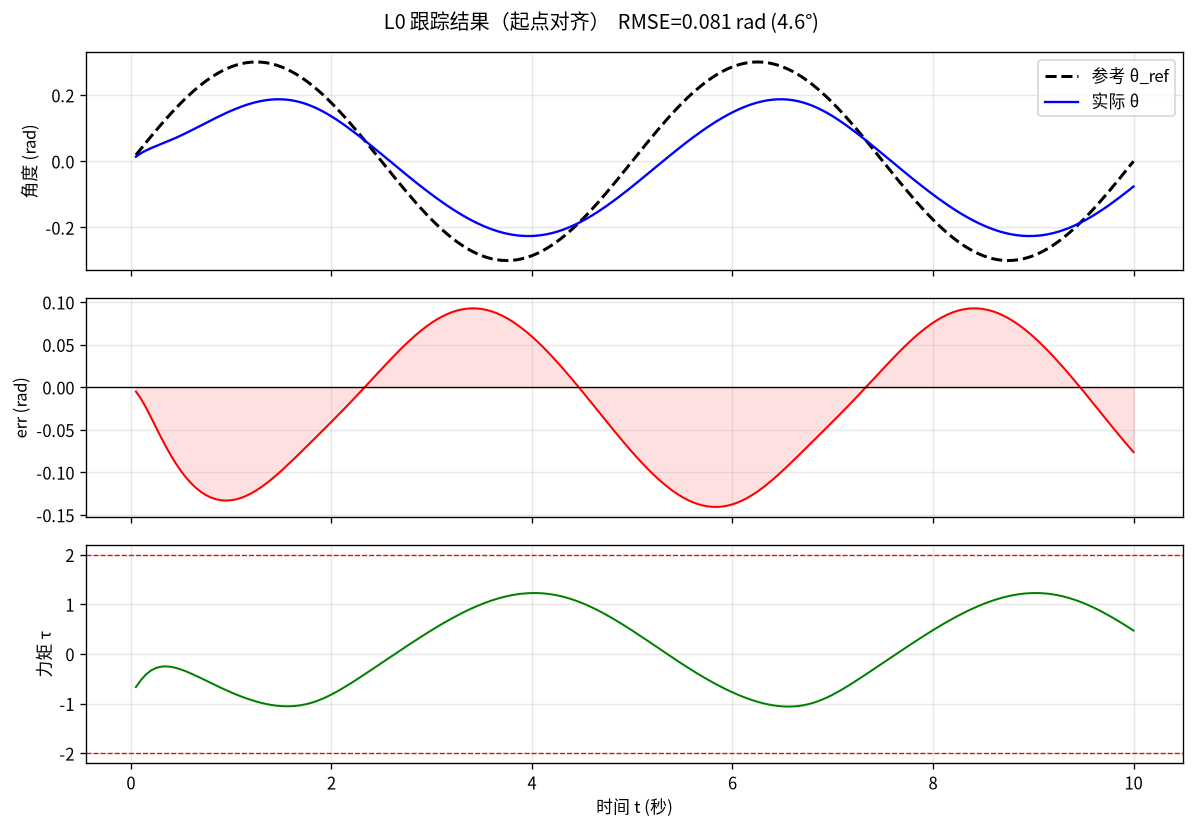
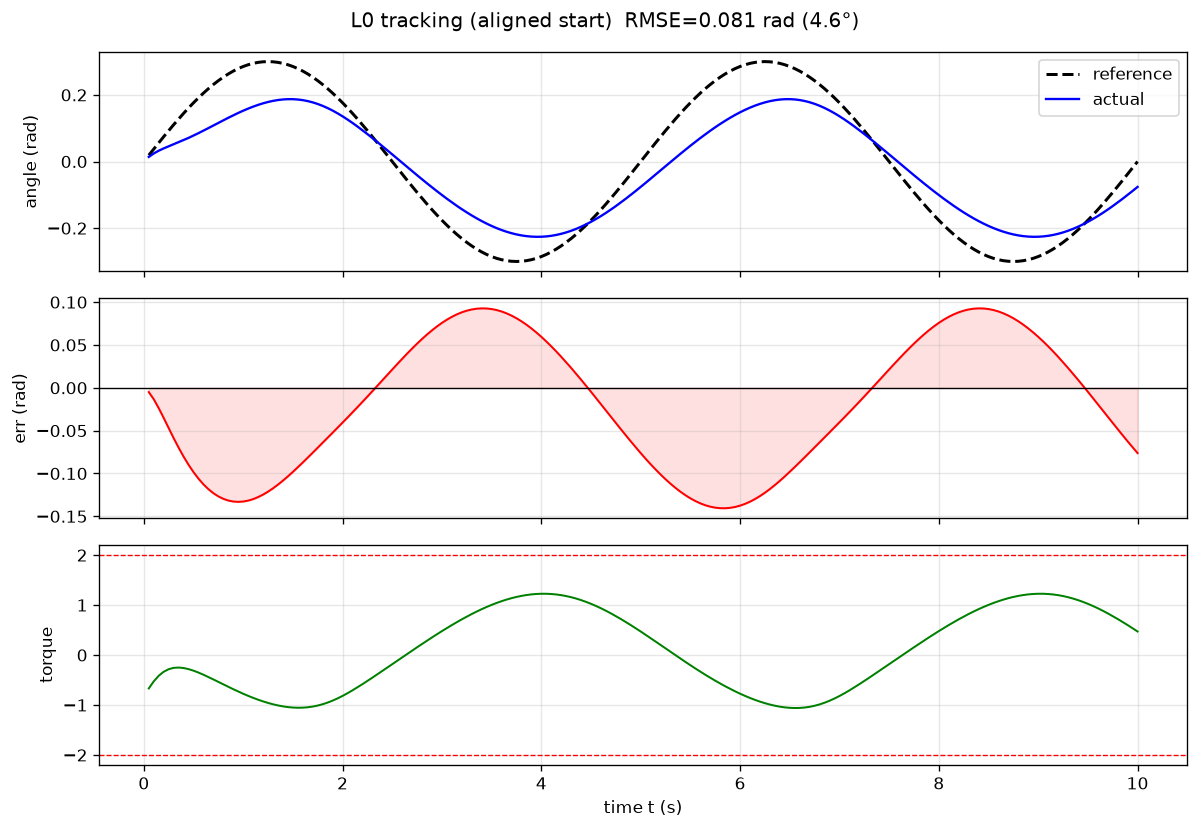
docs: finish the English pass and make evaluation reproducible
Translates every remaining Chinese string: comments and docstrings in
tracking_env.py, train_curriculum.py and eval_tracking.py, plus the
.gitignore and requirements.txt headers. Regenerates the tracking figure
with English axis labels.

Also seeds protocol B, whose random initial state made the reported RMSE
drift between runs, and updates the README to the reproducible numbers
(0.6277 +/- 0.3234 rad).

diff --git a/supermimic_l0/eval_tracking.py b/supermimic_l0/eval_tracking.py
@@ -1,9 +1,11 @@
-"""L0 评估：两个口径衡量跟踪质量。
+"""L0 evaluation: two protocols for measuring tracking quality.
 
-协议 A（起点对齐）：把杆子放在参考轨迹起点再跑，衡量纯跟踪精度。
-协议 B（随机初始态）：含「从任意姿态刹车归位」，衡量恢复能力。
+Protocol A (aligned start): places the pole at the reference trajectory's
+starting state, measuring pure tracking accuracy.
+Protocol B (random start): includes braking and recovery from an arbitrary pose,
+measuring robustness.
 
-用法：
+Usage:
     cd supermimic_l0
     python eval_tracking.py
 """
@@ -15,22 +17,19 @@ from stable_baselines3 import PPO
 
 import tracking_env as te
 
-plt.rcParams['font.sans-serif'] = ['Noto Sans CJK SC']
-plt.rcParams['axes.unicode_minus'] = False
-
 MODEL_PATH = 'models/l0_ppo_curriculum.zip'
 FIG_PATH = 'assets/l0_tracking_final.png'
 
 
-def run_episode(env, model, aligned):
+def run_episode(env, model, aligned, seed=None):
     if aligned:
-        env.reset()                      # 先 reset，完成 Gymnasium 的内部记账
+        env.reset()                      # reset first so Gymnasium's internal bookkeeping is done
         env.t = 0.0
         env.unwrapped.state = np.array([te.theta_ref(0.0), te.dtheta_ref(0.0)],
                                        dtype=np.float64)
         obs = env._aug(env.unwrapped._get_obs())
     else:
-        obs, _ = env.reset()
+        obs, _ = env.reset(seed=seed)
 
     rec = {'t': [], 'err': [], 'th': [], 'ref': [], 'tau': []}
     done = False
@@ -52,7 +51,8 @@ def main():
     env = te.make_env()
 
     aligned = [run_episode(env, model, True) for _ in range(5)]
-    random_ = [run_episode(env, model, False) for _ in range(5)]
+    # fixed seeds so the reported numbers are reproducible
+    random_ = [run_episode(env, model, False, seed=s) for s in range(5)]
 
     rmse_a = [float(np.sqrt(np.mean(r['err'] ** 2))) for r in aligned]
     mae_a = [float(np.mean(np.abs(r['err']))) for r in aligned]
@@ -60,23 +60,23 @@ def main():
     rmse_b = [float(np.sqrt(np.mean(r['err'] ** 2))) for r in random_]
 
     print('=' * 52)
-    print('协议 A：起点对齐参考轨迹（跟踪精度）')
+    print('Protocol A: aligned start (tracking accuracy)')
     print(f'  RMSE    : {np.mean(rmse_a):.4f} ± {np.std(rmse_a):.4f} rad'
           f'  ({np.degrees(np.mean(rmse_a)):.2f}°)')
     print(f'  MAE     : {np.mean(mae_a):.4f} rad')
-    print(f'  最大误差 : {np.mean(max_a):.4f} rad')
-    print('协议 B：随机初始态（含刹车归位）')
+    print(f'  Max err : {np.mean(max_a):.4f} rad')
+    print('Protocol B: random start (includes braking / recovery)')
     print(f'  RMSE    : {np.mean(rmse_b):.4f} ± {np.std(rmse_b):.4f} rad'
           f'  ({np.degrees(np.mean(rmse_b)):.2f}°)')
     print('=' * 52)
 
     best = aligned[int(np.argmin(rmse_a))]
     fig, ax = plt.subplots(3, 1, figsize=(10, 7), sharex=True)
-    fig.suptitle(f'L0 跟踪结果（起点对齐）  RMSE={np.min(rmse_a):.3f} rad '
+    fig.suptitle(f'L0 tracking (aligned start)  RMSE={np.min(rmse_a):.3f} rad '
                  f'({np.degrees(np.min(rmse_a)):.1f}°)')
-    ax[0].plot(best['t'], best['ref'], 'k--', lw=1.8, label='参考 θ_ref')
-    ax[0].plot(best['t'], best['th'], 'b-', lw=1.4, label='实际 θ')
-    ax[0].set_ylabel('角度 (rad)')
+    ax[0].plot(best['t'], best['ref'], 'k--', lw=1.8, label='reference')
+    ax[0].plot(best['t'], best['th'], 'b-', lw=1.4, label='actual')
+    ax[0].set_ylabel('angle (rad)')
     ax[0].legend(loc='upper right')
     ax[0].grid(alpha=.3)
     ax[1].plot(best['t'], best['err'], 'r-', lw=1.2)
@@ -87,12 +87,12 @@ def main():
     ax[2].plot(best['t'], best['tau'], 'g-', lw=1.2)
     ax[2].axhline(te.MAX_TORQUE, color='r', ls='--', lw=.8)
     ax[2].axhline(-te.MAX_TORQUE, color='r', ls='--', lw=.8)
-    ax[2].set_ylabel('力矩 τ')
-    ax[2].set_xlabel('时间 t (秒)')
+    ax[2].set_ylabel('torque')
+    ax[2].set_xlabel('time t (s)')
     ax[2].grid(alpha=.3)
     plt.tight_layout()
     plt.savefig(FIG_PATH, dpi=120, bbox_inches='tight')
-    print(f'已保存: {FIG_PATH}')
+    print(f'Saved: {FIG_PATH}')
 
 
 if __name__ == '__main__':

diff --git a/supermimic_l0/tracking_env.py b/supermimic_l0/tracking_env.py
@@ -1,12 +1,16 @@
-"""L0 跟踪环境：把 Pendulum-v1 改造成「跟着参考轨迹摆动」的任务。
+"""L0 tracking environment: turns Pendulum-v1 into "swing along a reference".
 
-三个关键设计（都是踩过坑才定下来的）：
-1. 参考相位必须进观测。只给 [cosθ, sinθ, θ̇] 时，策略无法区分
-   「t=1.25s 目标是 +0.6」和「t=3.75s 目标是 −0.6」，只能收敛到转圈。
-2. 参考振幅必须在力矩可达范围内。Pendulum 动力学 θ̈ = 15·sinθ + 3u 无阻尼，
-   静止撑住角度需要 u = 5·sinθ，而 |u| ≤ 2 → 最大可静止角约 0.41 rad。
-3. 振幅要课程式增长。直接从 0.3 开始，策略会收敛到「躺在 0 不动」的局部最优，
-   因为躺平的每步代价只有 A²/2。
+Three design choices, each of which came from a failure mode we hit:
+1. The reference phase must be part of the observation. With only
+   [cos, sin, theta_dot] the policy cannot tell "at t=1.25s the target is +0.6"
+   apart from "at t=3.75s the target is -0.6", so it collapses to spinning.
+2. The reference amplitude must stay within the torque budget. Pendulum dynamics
+   are theta_ddot = 15*sin(theta) + 3u with no damping, so holding an angle
+   requires u = 5*sin(theta); with |u| <= 2 the largest holdable angle is
+   about 0.41 rad.
+3. The amplitude must ramp up as a curriculum. Starting at 0.3 directly lets the
+   policy settle into the "park at zero" local optimum, because parking only
+   costs A^2/2 per step.
 """
 import gymnasium as gym
 from gymnasium import spaces
@@ -18,7 +22,8 @@ AMP_START = 0.05
 AMP_FINAL = 0.3
 MAX_TORQUE = 2.0
 
-# 当前生效振幅。DummyVecEnv 下同进程共享，供课程回调实时修改。
+# Amplitude currently in effect. Under DummyVecEnv every env shares this process,
+# so the curriculum callback can update it live.
 _CUR_AMP = AMP_START
 
 
@@ -40,12 +45,14 @@ def dtheta_ref(t):
 
 
 def wrap(a):
-    """把角度差折叠到 [-π, π]，避免跨越 ±π 时出现 2π 的虚假误差。"""
+    """Wrap an angular difference into [-pi, pi] so crossing the boundary
+    does not produce a spurious 2*pi error."""
     return np.arctan2(np.sin(a), np.cos(a))
 
 
 def required_peak_torque(amp, freq=FREQ, dt=DT):
-    """精确跟踪该参考轨迹所需的峰值力矩，用于检查任务是否物理可行。"""
+    """Peak torque needed to track this reference exactly; used to check that
+    the task is physically feasible before training starts."""
     w = 2 * np.pi * freq
     ts = np.arange(0, 2 * np.pi / w, dt)
     u = (-(amp * w ** 2) * np.sin(w * ts)
@@ -54,7 +61,7 @@ def required_peak_torque(amp, freq=FREQ, dt=DT):
 
 
 class TrackingPendulum(gym.Wrapper):
-    """观测 = [cosθ, sinθ, θ̇, θ_ref, θ̇_ref]，共 5 维。"""
+    """Observation = [cos, sin, theta_dot, ref, ref_dot], 5 dimensions."""
 
     def __init__(self, env):
         super().__init__(env)
@@ -75,7 +82,8 @@ class TrackingPendulum(gym.Wrapper):
         self.t += DT
         theta = np.arctan2(obs[1], obs[0])
         err = wrap(theta - theta_ref(self.t))
-        # 完全覆盖原生 reward：原生奖励鼓励停在顶端静止，与跟踪目标冲突
+        # Fully overrides the native reward: the native one rewards parking at
+        # the top, which directly conflicts with tracking a moving reference.
         r = -(err ** 2) - 0.001 * np.sum(np.square(action))
         info.update(theta=theta, ref=theta_ref(self.t), err=err, t=self.t)
         return self._aug(obs), r, term, trunc, info

diff --git a/supermimic_l0/train_curriculum.py b/supermimic_l0/train_curriculum.py
@@ -1,10 +1,10 @@
-"""L0 训练：Pendulum-v1 + PPO + 课程式振幅。
+"""L0 training: Pendulum-v1 + PPO + a curriculum-scheduled amplitude.
 
-用法：
+Usage:
     cd supermimic_l0
     python train_curriculum.py
 
-耗时约 3 分钟（CPU，~2000 fps）。
+Takes about 3 minutes on CPU (~2000 fps).
 """
 import numpy as np
 from stable_baselines3 import PPO
@@ -14,13 +14,14 @@ from stable_baselines3.common.callbacks import BaseCallback
 
 import tracking_env as te
 
-RAMP_STEPS = 250_000      # 前 250k 步振幅从 AMP_START 线性涨到 AMP_FINAL
+RAMP_STEPS = 250_000      # amplitude ramps from AMP_START to AMP_FINAL over this many steps
 TOTAL_STEPS = 400_000
 MODEL_PATH = 'models/l0_ppo_curriculum.zip'
 
 
 class AmpCurriculum(BaseCallback):
-    """每个 step 把振幅往 AMP_FINAL 推一点，避免策略在易任务上过拟合后塌回躺平。"""
+    """Nudges the amplitude toward AMP_FINAL every step, so the policy never
+    collapses back to parking after being trained on an easy version."""
 
     def __init__(self):
         super().__init__()
@@ -32,19 +33,20 @@ class AmpCurriculum(BaseCallback):
         mark = self.num_timesteps // 50_000
         if mark != self._last_mark:
             self._last_mark = mark
-            print(f'[curriculum] step={self.num_timesteps:>7d}  当前振幅={te.get_amp():.3f}')
+            print(f'[curriculum] step={self.num_timesteps:>7d}  amplitude={te.get_amp():.3f}')
         return True
 
 
 def main():
     peak = te.required_peak_torque(te.AMP_FINAL)
-    print(f'最终振幅 AMP={te.AMP_FINAL}  频率={te.FREQ} Hz')
-    print(f'精确跟踪所需峰值力矩 : {peak:.3f} / 上限 {te.MAX_TORQUE:.1f} → '
-          + ('可行' if peak <= te.MAX_TORQUE else '不可行'))
+    print(f'Final amplitude AMP={te.AMP_FINAL}  frequency={te.FREQ} Hz')
+    print(f'Peak torque for exact tracking : {peak:.3f} / limit {te.MAX_TORQUE:.1f} -> '
+          + ('feasible' if peak <= te.MAX_TORQUE else 'INFEASIBLE'))
     print()
 
     te.set_amp(te.AMP_START)
-    # DummyVecEnv：所有 env 在同一进程，课程回调改全局振幅才能立刻生效
+    # DummyVecEnv: all envs live in this process, so the curriculum callback can
+    # change the global amplitude and have it take effect immediately.
     env = make_vec_env(te.make_env, n_envs=4, vec_env_cls=DummyVecEnv)
     model = PPO('MlpPolicy', env,
                 n_steps=1024, batch_size=64,
@@ -55,7 +57,7 @@ def main():
 
     te.set_amp(te.AMP_FINAL)
     model.save(MODEL_PATH)
-    print(f'\n模型已保存: {MODEL_PATH}')
+    print(f'\nModel saved: {MODEL_PATH}')
 
 
 if __name__ == '__main__':

diff --git a/README.md b/README.md
@@ -19,7 +19,7 @@ Each rung is independently runnable and independently verifiable, so the project
 | Protocol | Setup | RMSE | MAE | Max error |
 |---|---|---|---|---|
 | **A — aligned start** | Pole initialised to the reference's starting state; measures pure tracking accuracy | **0.0805 rad (4.61°)** | 0.0704 rad | 0.1406 rad |
-| **B — random start** | Gymnasium's random initial state, includes braking and recovery | 0.7377 ± 0.1765 rad (42.3°) | — | — |
+| **B — random start** | Gymnasium's random initial state, includes braking and recovery | 0.6277 ± 0.3234 rad (36.0°) | — | — |
 
 ![L0 tracking result](supermimic_l0/assets/l0_tracking_final.png)
 
